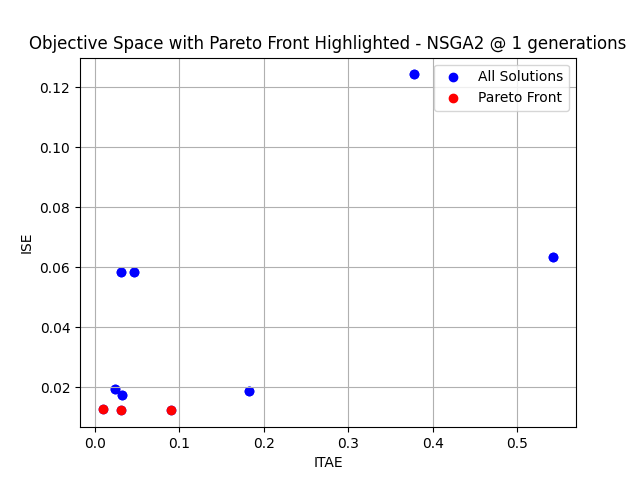
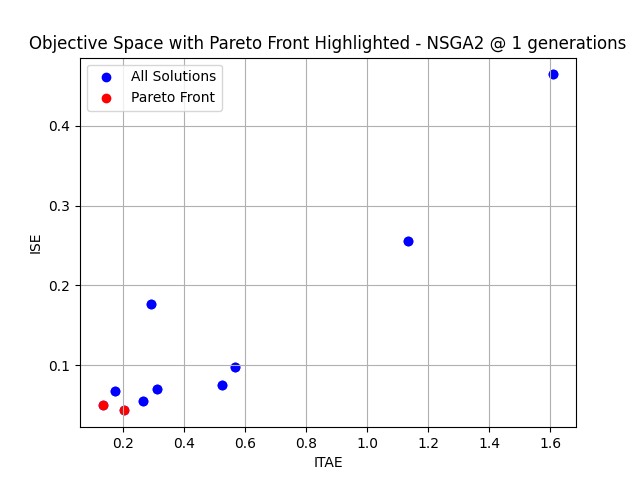
update tables

diff --git a/modules/algorithm.py b/modules/algorithm.py
@@ -16,7 +16,8 @@ from pymoo.indicators.hv import HV
 from pymoo.indicators.igd import IGD
 
 from modules.motor_control import MotorResponse
-from modules.utils import plot_solution_space, plot_pareto_objective, plot_objective_space
+from modules.utils import plot_objective_space, tic, toc
+import pandas as pd
 
 class Algorithm:
 
@@ -29,6 +30,7 @@ class Algorithm:
 
     def run(self,n_gen):
 
+        t = tic()
         res = minimize(self.problem,
                 self.algorithm,
                 ('n_gen', n_gen),
@@ -36,10 +38,12 @@ class Algorithm:
                 callback=MyCallback(),
                 save_history = True,
                 verbose=True)
-
+        dt = toc(t)
+        
         return {"solutions":{"all":res.pop.get("X"), "pareto":res.X},
                 "objective": {"all": res.pop.get("F"), "pareto": res.F},
-                "history": res.history}
+                "history": res.history,
+                "Time": dt}
 
 class MyOutput(Output):
 
@@ -82,7 +86,7 @@ class PIDOptimizationProblem(ElementwiseProblem):
                         n_obj=2,  # ITAE, ISE
                         n_constr=0,  # No constraints
                         xl=np.array([10, 1, 0]),  # Lower bounds for kp, ki, kd
-                        xu=np.array([200, 250, 50]))  # Upper bounds for kp, ki, kd
+                        xu=np.array([50, 50, 25]))  # Upper bounds for kp, ki, kd
 
         self.motor = motor
         self.C_pid = C_pid
@@ -110,19 +114,18 @@ class History:
         for algo_name in algorithms_names:
             self.algo[algo_name] = {"solutions":[],
                                     "objective":[],
-                                    "pareto_front":{"solutions":[],
-                                                    "objective":[]}}
+                                    "Time":[]}
 
         self.total = {"solutions":[],
-                        "objective":[],
-                        "pareto_front":{"solutions":[],
-                                                    "objective":[]}}
+                        "objective":[]}
+        
     
-    def update(self,algo_name, solutions, objective):
+    def update(self,algo_name, solutions, objective,time):
         self.algo[algo_name]["solutions"].append(solutions)
         self.total["solutions"].append(solutions)
         self.algo[algo_name]["objective"].append(objective)
         self.total["objective"].append(objective)
+        self.algo[algo_name]["Time"].append(time)
 
     def _get_stack_algo_pareto(self, algo_name):
         stack_objective = np.vstack(self.algo[algo_name]["objective"])
@@ -284,3 +287,87 @@ class History:
         print("* Save figure")
         if show:
             plt.show()
+
+
+class Metrics:
+
+    def __init__(self, history) -> None:
+        self.history_data = history
+        _, _, _, self.ref_pf = self.history_data.get_total_pareto_front()
+        
+        self.metrics = {}
+        for algo_name in self.history_data.algo.keys():
+        
+            self.metrics[algo_name] = {"IGD":np.empty((0,1)),
+                            "HV": np.empty((0,1)),
+                            "SPREAD": np.empty((0,1)),
+                            "Time": np.empty((0,1))}
+
+        self.igd_indicator = IGD(pf=self.ref_pf)
+        self.hv_indicator = HV(ref_point=[0.04,0.05])
+        self.spread_indicator = self.SPREAD
+        
+    @staticmethod
+    def SPREAD(points):
+    
+    # Calculate the distance between all pairs of points 
+        distances = [] 
+        for i in range(len(points)): 
+            for j in range(i+1, len(points)): 
+                d = np.linalg.norm(np.array(points[i]) - np.array(points[j])) 
+                distances.append(d) 
+        
+        # Calculate the spread metric as the average distance between points 
+        spread = np.mean(distances) 
+        return spread
+    
+    def _evaluate(self):
+
+        for algo_name in self.history_data.algo.keys():
+            for i in range(len(self.history_data.algo[algo_name]["objective"])):
+                algo_pf_i = self.history_data.algo[algo_name]["objective"][i]
+                # time_i = self.history_data.algo[algo_name]["Time"][i]
+                time_i = self.history_data.algo[algo_name]["Time"][i]
+                self.metrics[algo_name]["IGD"] = np.vstack([self.metrics[algo_name]["IGD"], self.igd_indicator(algo_pf_i)])
+                self.metrics[algo_name]["HV"] = np.vstack([self.metrics[algo_name]["HV"], self.hv_indicator(algo_pf_i)])
+                self.metrics[algo_name]["SPREAD"] = np.vstack([self.metrics[algo_name]["SPREAD"], self.spread_indicator(algo_pf_i)])
+                self.metrics[algo_name]["Time"] = np.vstack([self.metrics[algo_name]["Time"], time_i])
+
+    def print_metrics_table(self):
+        """Prints the metrics stored in self.metrics in a readable table format."""
+        
+        print("*** Start Metrics Evaluation ***")
+        self._evaluate()
+        print("*** Finish Metrics Evaluation ***")
+        
+        
+        print("*** Print Metrics ***")
+
+        
+        # Iterate through the metrics for each algorithm
+        
+        for algo_name, metrics in self.metrics.items():
+            # Create an empty list to hold the data for creating the DataFrame
+            data = []
+            # For each algorithm, append a row to the data list
+            print(f"* {algo_name} metrics: ")
+            for i in range(len(metrics['IGD'])):
+                row = []
+                row.extend([
+                    metrics['IGD'][i][0],
+                    metrics['HV'][i][0],
+                    metrics['SPREAD'][i][0],
+                    metrics['Time'][i][0]
+                ])
+                data.append(row)
+
+            df = pd.DataFrame(data, columns=['IGD', 'HV', 'SPREAD', 'Time'])
+
+            # Save the DataFrame to an Excel file
+            file_name = f"tables/{algo_name}_table.xlsx"
+            df.to_excel(file_name, index=False, engine='openpyxl')
+
+            print(f"Metrics saved to '{file_name}'.")
+            
+            # Print the DataFrame
+            print(df.to_string(index=False))

diff --git a/pid_opt_main.py b/pid_opt_main.py
@@ -23,7 +23,8 @@ from modules.utils import(
 from modules.algorithm import(
     PIDOptimizationProblem,
     Algorithm,
-    History
+    History,
+    Metrics
 )
 
 from modules.motor_control import (
@@ -117,7 +118,7 @@ def main():
 
         # Solutions in the decision space (PID parameters)
         fig, _ = plot_solution_space(solutions=res["solutions"]["all"].T,
-                             title = f'Solution Space - {algorithm.name} @ {n_gen} generations')
+                            title = f'Solution Space - {algorithm.name} @ {n_gen} generations')
 
         # Solutions and Pareto front in the objective space (ITAE and ISE)
         fig.savefig(f"figures/solution_space_{algorithm.name}_{n_gen}gen")
@@ -126,7 +127,7 @@ def main():
                             objective_pareto=res["objective"]["pareto"].T,
                             obj_names=[algorithm.obj_functions["obj1"].name,
                                     algorithm.obj_functions["obj2"].name],
-                             title = f'Objective Space with Pareto Front Highlighted - {algo_name} @ {n_gen} generations',
+                            title = f'Objective Space with Pareto Front Highlighted - {algo_name} @ {n_gen} generations',
                             use_pareto=True
                         )
         fig.savefig(f"figures/objective_space_{algorithm.name}_{n_gen}gen")
@@ -165,16 +166,24 @@ def main():
 
             history.update(algo_name=algorithm.name,
                         solutions=res["solutions"]["pareto"],
-                        objective=res["objective"]["pareto"])
+                        objective=res["objective"]["pareto"],
+                        time=res["Time"])
 
             print(f"****")
         
         print(f"* saving {algo_name} plot and video")
-        history.plot_algo_paretos(algorithm=algorithm, save_video=False, show=True)
-        history.plot_algo_pareto_front(algorithm=algorithm,show=True)
+        history.plot_algo_paretos(algorithm=algorithm, save_video=False, show=False)
+        history.plot_algo_pareto_front(algorithm=algorithm,show=False)
 
-    history.plot_total_pareto(show=True)
-    history.plot_total_pareto_front(show=True)
+    history.plot_total_pareto(show=False)
+    history.plot_total_pareto_front(show=False)
+
+    print("******* Finish Algo ********")
+    print("******* Start Metrics ********")
+
+    metrics = Metrics(history=history)
+    metrics.print_metrics_table()
+    a=1
     
 
 

diff --git a/modules/utils.py b/modules/utils.py
@@ -1,4 +1,12 @@
 import matplotlib.pyplot as plt
+import time
+
+def tic():
+    return time.time()
+
+
+def toc(t):
+    return float(tic()) - float(t)
 
 def plot_solution_space(solutions, title):
     
